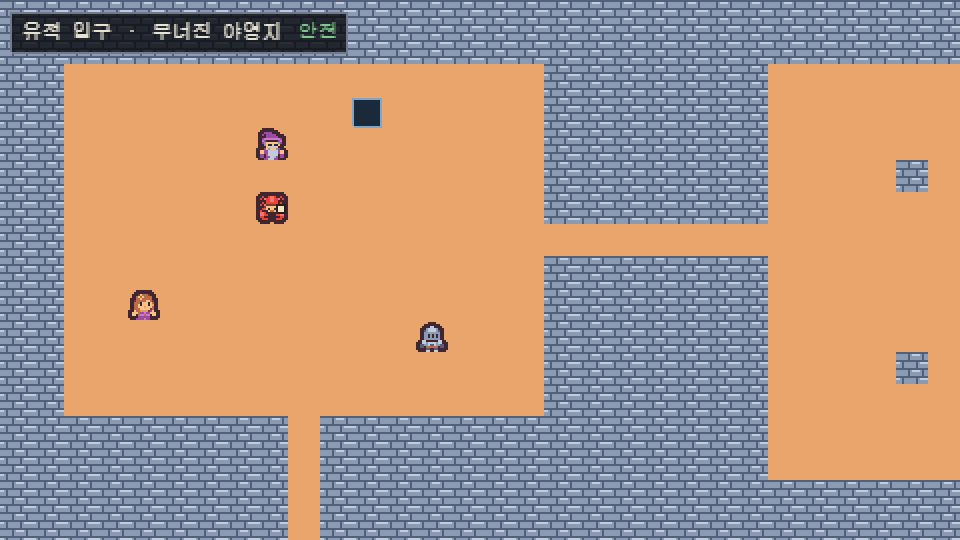
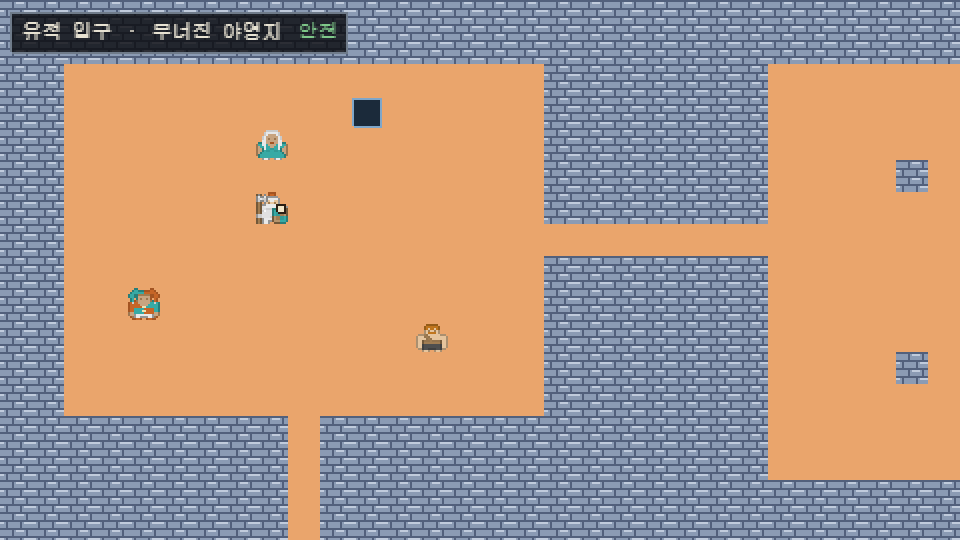
feat(assets): 인물 스프라이트 - 파티·NPC·전투 초상 (T-033)
사용자가 Kenney Roguelike Characters(CC0-1.0)를 조달했다. 벤더 팩으로
등재하고(ADR-007) 사람 그림을 전부 여기로 옮겼다.

- `data/characters.ts` 가 사람 프레임을 전담한다. 사람마다 다른 시트를 쓰면
  "이 번호가 어느 시트 것인지" 를 매번 따져야 하고, 그건 반드시 틀린다
- 색인 스키마에 `frame.spacing` 추가. 이 시트는 타일 사이 1px 여백이 있다
- 전투 파티 패널에 초상 추가. 프론트뷰인데 파티 쪽에 그림이 하나도 없었다

⚠ 이 팩에도 4방향은 없다. 종이인형 방식(몸통 + 옷 + 모자 + 무기)의 정면
한 방향이고, 6~11행 두 열만 이미 합쳐진 인물이다. 바라보는 방향은 여전히
표식이 말한다.

여백을 틀리면 화면이 비지 않고 한 칸씩 밀린 그림이 나온다 - 에셋이 없을 때보다
알아채기 어렵다. 선언한 격자(54x12)와 실제 PNG 크기를 대조하는 테스트를 넣었다.

테스트 491 -> 496.

diff --git a/tests/unit/content.test.ts b/tests/unit/content.test.ts
@@ -10,6 +10,14 @@ import {
   validateDialogueScript,
 } from '../../src/core/dialogue/index.js';
 import { DIALOGUE_SCRIPTS, dialogueScript } from '../../src/data/dialogue.js';
+import { createAssetCatalog, parseAssetIndex } from '../../src/core/assets/index.js';
+import {
+  CHARACTER_FRAMES,
+  CHARACTER_SHEET,
+  PARTY_PORTRAITS,
+  PORTRAITS,
+  portraitOf,
+} from '../../src/data/characters.js';
 import { NPCS_BY_MAP } from '../../src/data/npcs.js';
 import { PORTALS_BY_MAP } from '../../src/data/portals.js';
 import { ZONES_BY_MAP, zonesForMap } from '../../src/data/zones.js';
@@ -185,22 +193,67 @@ describe('NPC 배치', () => {
     expect(problems, problems.join('\n')).toEqual([]);
   });
 
-  it('모든 NPC 가 존재하는 대화와 유효한 타일을 가리킨다', () => {
+  it('모든 NPC 가 존재하는 대화와 유효한 프레임을 가리킨다', () => {
     const problems: string[] = [];
 
     for (const id of MAP_IDS) {
-      const tileCount = mapOf(id).tilesets[0]?.tileCount ?? 0;
       for (const npc of NPCS_BY_MAP[id] ?? []) {
         if (DIALOGUE_SCRIPTS[npc.dialogueId] === undefined) {
           problems.push(`${id}/${npc.id}: 없는 대화 "${npc.dialogueId}"`);
         }
-        if (npc.tile < 0 || npc.tile >= tileCount) {
-          problems.push(`${id}/${npc.id}: 타일 ${npc.tile} 이 범위 밖`);
+        // 사람은 전부 `chars-roguelike` 시트에서 나온다 (`data/characters.ts`).
+        if (npc.tile < 0 || npc.tile >= CHARACTER_FRAMES) {
+          problems.push(`${id}/${npc.id}: 프레임 ${npc.tile} 이 범위 밖 (0~${CHARACTER_FRAMES - 1})`);
         }
       }
     }
 
     expect(problems, problems.join('\n')).toEqual([]);
+  });
+
+  it('NPC 마다 다르게 생겼다', () => {
+    // 같은 얼굴이 둘이면 이름표를 읽기 전까지 누구인지 알 수 없다.
+    for (const id of MAP_IDS) {
+      const frames = (NPCS_BY_MAP[id] ?? []).map((npc) => npc.tile);
+      expect(new Set(frames).size, id).toBe(frames.length);
+    }
+  });
+});
+
+describe('인물 스프라이트', () => {
+  it('선언한 격자가 실제 시트 크기와 맞는다', () => {
+    // 격자를 잘못 적으면 화면이 비지 않고 **한 칸씩 밀린 그림**이 나온다.
+    // 에셋이 없을 때보다 알아채기 어려우므로 여기서 못을 박는다.
+    const entry = createAssetCatalog(
+      parseAssetIndex(JSON.parse(readFileSync(join(process.cwd(), 'assets/index.json'), 'utf8'))),
+    ).get(CHARACTER_SHEET.key);
+
+    const png = readFileSync(join(process.cwd(), entry.path));
+    const width = png.readUInt32BE(16);
+    const height = png.readUInt32BE(20);
+
+    const spacing = entry.kind === 'spritesheet' || entry.kind === 'tileset' ? (entry.frame.spacing ?? 0) : 0;
+    const cell = 16 + spacing;
+
+    expect(Math.floor((width + spacing) / cell), '열 수').toBe(CHARACTER_SHEET.columns);
+    expect(Math.floor((height + spacing) / cell), '행 수').toBe(CHARACTER_SHEET.rows);
+  });
+
+  it('파티원마다 얼굴이 다르다', () => {
+    const frames = Object.values(PARTY_PORTRAITS);
+    expect(new Set(frames).size).toBe(frames.length);
+  });
+
+  it('모든 초상이 시트 범위 안이다', () => {
+    for (const [name, frame] of Object.entries(PORTRAITS)) {
+      expect(frame, name).toBeGreaterThanOrEqual(0);
+      expect(frame, name).toBeLessThan(CHARACTER_FRAMES);
+    }
+  });
+
+  it('모르는 액터도 사람으로 그려진다 (빈 칸이 되지 않는다)', () => {
+    expect(portraitOf('nobody')).toBeGreaterThanOrEqual(0);
+    expect(portraitOf('nobody')).toBeLessThan(CHARACTER_FRAMES);
   });
 });
 

diff --git a/src/data/characters.ts b/src/data/characters.ts
@@ -1,0 +1,70 @@
+import type { ActorId } from '../core/battle/index.js';
+
+/**
+ * 사람 스프라이트.
+ *
+ * 파티도 NPC도 전부 한 시트에서 나온다 (`chars-roguelike`). 사람마다 다른 시트를 쓰면
+ * "이 번호가 어느 시트의 것인지" 를 매번 따져야 하고, 그건 반드시 틀린다.
+ *
+ * ⚠ **정면 한 방향뿐이다.** 이 팩(Kenney Roguelike Characters)은 옆·뒤 모습도,
+ * 걷기 프레임도 갖고 있지 않다. 그래서 탐색 화면에서 바라보는 방향은 여전히 표식이 말한다.
+ * 4방향 걷기는 다른 팩이 들어와야 가능하다 — 백로그의 사람 몫이다.
+ */
+export const CHARACTER_SHEET = {
+  key: 'chars-roguelike',
+  columns: 54,
+  rows: 12,
+} as const;
+
+/** 격자 좌표 → 프레임 번호. 시트 크기가 바뀌면 여기 하나만 고치면 된다. */
+export function characterFrame(column: number, row: number): number {
+  return row * CHARACTER_SHEET.columns + column;
+}
+
+export const CHARACTER_FRAMES = CHARACTER_SHEET.columns * CHARACTER_SHEET.rows;
+
+/**
+ * 조합이 끝난 인물들.
+ *
+ * 이 팩은 종이인형 방식이라 대부분의 칸이 몸통·옷·모자·무기 조각이다.
+ * 6~11행의 두 열만 **이미 합쳐진 인물**이라, 합성 기제가 없는 지금 쓸 수 있는 것은 여기뿐이다.
+ *
+ * 이름은 겉모습을 가리키는 보통명사다. 고유명사는 아직 확정하지 않는다 (GDD §10).
+ */
+export const PORTRAITS = {
+  braided: characterFrame(0, 5),
+  elder: characterFrame(1, 5),
+  bare: characterFrame(0, 6),
+  bearded: characterFrame(1, 6),
+  scarred: characterFrame(0, 7),
+  plaited: characterFrame(1, 7),
+  hooded: characterFrame(0, 8),
+  belted: characterFrame(1, 8),
+  ginger: characterFrame(0, 9),
+  greying: characterFrame(1, 9),
+  teal: characterFrame(0, 10),
+  horned: characterFrame(1, 10),
+  armored: characterFrame(0, 11),
+  robed: characterFrame(1, 11),
+} as const;
+
+export type PortraitId = keyof typeof PORTRAITS;
+
+/**
+ * 파티원의 얼굴.
+ *
+ * 전위는 갑옷, 술사는 법의. 능력이 유물에서 온다고 해서(ADR-004) 겉모습까지 같을 이유는 없다 —
+ * 오히려 누가 누구인지 한눈에 보여야 유물을 누구에게 줄지 고를 수 있다.
+ */
+export const PARTY_PORTRAITS: Readonly<Record<ActorId, number>> = {
+  vanguard: PORTRAITS.armored,
+  caster: PORTRAITS.robed,
+};
+
+/** 탐색 화면의 주인공. 파티를 이끄는 전위다. */
+export const PLAYER_PORTRAIT = PARTY_PORTRAITS['vanguard'] ?? PORTRAITS.armored;
+
+/** 모르는 액터는 조용히 빈 칸으로 두지 않는다 — 누구인지 모를 뿐 사람이긴 하다. */
+export function portraitOf(actorId: ActorId): number {
+  return PARTY_PORTRAITS[actorId] ?? PORTRAITS.bare;
+}

diff --git a/src/game/scenes/BattleScene.ts b/src/game/scenes/BattleScene.ts
@@ -17,6 +17,7 @@ import { erosionThreshold, skillBlockReason, type Skill } from '../../core/battl
 import { createRng } from '../../core/rng/index.js';
 import { BATTLE_TUNING } from '../../data/battle.js';
 import { ruinEncounter, mobTile, type Encounter } from '../../data/encounters.js';
+import { CHARACTER_SHEET, portraitOf } from '../../data/characters.js';
 import { item as itemById } from '../../data/items.js';
 import { markBattle, markScene, type BattlePhase } from '../domState.js';
 import {
@@ -161,9 +162,14 @@ export class BattleScene extends Phaser.Scene {
 
     party.forEach((member, i) => {
       const top = 176 + i * 42;
+
+      // 전투는 프론트뷰다 (GDD §6.2). 이름만 있으면 누가 누구인지 이름표로만 알게 되는데,
+      // 유물을 누구에게 줄지 고르는 게임에서 그건 부족하다.
+      this.add.image(22, top + 10, CHARACTER_SHEET.key, portraitOf(member.id));
+
       this.partyLabels.set(
         member.id,
-        this.add.text(18, top, member.name, {
+        this.add.text(36, top, member.name, {
           fontFamily: 'monospace',
           fontSize: '11px',
           color: '#e8e3d3',
@@ -171,10 +177,10 @@ export class BattleScene extends Phaser.Scene {
       );
 
       this.partyGauges.set(member.id, {
-        hp: new Gauge(this, 92, top + 1, 88, 7, 0xb0304a),
-        mp: new Gauge(this, 92, top + 11, 88, 5, 0x4a72b0),
+        hp: new Gauge(this, 108, top + 1, 84, 7, 0xb0304a),
+        mp: new Gauge(this, 108, top + 11, 84, 5, 0x4a72b0),
         // 침식은 찰수록 나쁘다. 붉은 보라로 다른 축임을 알린다.
-        erosion: new Gauge(this, 212, top + 1, 96, 7, 0x8a4ab0),
+        erosion: new Gauge(this, 222, top + 1, 90, 7, 0x8a4ab0),
       });
 
       // 막대 색만으로는 무엇인지 알 수 없다. 좁은 자리라 두 글자로 줄인다.
@@ -183,7 +189,7 @@ export class BattleScene extends Phaser.Scene {
         ['MP', 10, '#4a72b0'],
       ] as const) {
         this.add
-          .text(88, top + offsetY, label, {
+          .text(104, top + offsetY, label, {
             fontFamily: 'monospace',
             fontSize: '8px',
             color,
@@ -192,7 +198,7 @@ export class BattleScene extends Phaser.Scene {
       }
 
       this.add
-        .text(208, top, 'ER', { fontFamily: 'monospace', fontSize: '8px', color: '#8a4ab0' })
+        .text(218, top, 'ER', { fontFamily: 'monospace', fontSize: '8px', color: '#8a4ab0' })
         .setOrigin(1, 0);
     });
 

diff --git a/src/game/scenes/OverworldScene.ts b/src/game/scenes/OverworldScene.ts
@@ -3,6 +3,7 @@ import { dialogueScript } from '../../data/dialogue.js';
 import { npcsForMap, type Npc } from '../../data/npcs.js';
 import { portalsForMap } from '../../data/portals.js';
 import { zonesForMap } from '../../data/zones.js';
+import { CHARACTER_SHEET, PLAYER_PORTRAIT } from '../../data/characters.js';
 import { MAP_NAMES, STARTING_MAP, type MapId } from '../../data/maps.js';
 import type { TileMap } from '../../core/world/tilemap.js';
 import {
@@ -42,14 +43,6 @@ import { markCamera, markDialogue, markMap, markScene, markWalker, markZone } fr
 
 /** 한 칸 이동에 걸리는 시간. 이 동안 입력은 무시된다. */
 const STEP_DURATION = 110;
-
-/**
- * `tiles-dungeon` 시트의 주인공 프레임.
- *
- * NPC(84·96·99)·적(108·122)과 겹치지 않으면서 **가장 눈에 띄는 칸**을 골랐다.
- * 스크린샷으로 진행을 확인하는 이상, 주변에 묻히는 주인공은 없는 것과 같다.
- */
-const PLAYER_TILE = 110;
 
 /** 씬을 다시 시작할 때 넘기는 값. 층을 오갈 때 어디로 내려설지 알려준다. */
 export interface OverworldEntry {
@@ -361,7 +354,7 @@ export class OverworldScene extends Phaser.Scene {
     return this.add.image(
       npc.position.x * this.map.tileWidth + this.map.tileWidth / 2,
       npc.position.y * this.map.tileHeight + this.map.tileHeight / 2,
-      'tiles-dungeon',
+      CHARACTER_SHEET.key,
       npc.tile,
     );
   }
@@ -369,11 +362,11 @@ export class OverworldScene extends Phaser.Scene {
   /**
    * 주인공.
    *
-   * Tiny Dungeon 의 캐릭터 타일을 쓴다 (ADR-006 색인 경유). **한 방향뿐**이라
+   * 사람은 전부 `chars-roguelike` 에서 나온다 (`data/characters.ts`). **정면 한 방향뿐**이라
    * 어디를 보고 있는지는 여전히 표식이 말해준다 — 4방향 걷기 프레임은 백로그의 사람 몫이다.
    */
   private createPlayerView(): Phaser.GameObjects.Container {
-    const body = this.add.image(0, 0, 'tiles-dungeon', PLAYER_TILE);
+    const body = this.add.image(0, 0, CHARACTER_SHEET.key, PLAYER_PORTRAIT);
     this.facingPip = this.add.rectangle(0, 0, 4, 4, 0xf2e6c9);
     this.facingPip.setStrokeStyle(1, 0x2a1e14);
 

diff --git a/src/data/npcs.ts b/src/data/npcs.ts
@@ -1,8 +1,9 @@
 import type { Occupant } from '../core/world/interaction.js';
+import { PORTRAITS } from './characters.js';
 import type { MapId } from './maps.js';
 
 export interface Npc extends Occupant {
-  /** `tiles-dungeon` 시트의 프레임 번호. 캐릭터 타일은 84번대부터다. */
+  /** `chars-roguelike` 시트의 프레임 번호. `data/characters.ts` 가 번호를 안다. */
   readonly tile: number;
   readonly dialogueId: string;
 }
@@ -16,9 +17,10 @@ export interface Npc extends Occupant {
  */
 export const NPCS_BY_MAP: Readonly<Partial<Record<MapId, readonly Npc[]>>> = {
   'ruin-entrance': [
-    { id: 'scholar', position: { x: 8, y: 4 }, tile: 84, dialogueId: 'ruin-scholar' },
-    { id: 'guard', position: { x: 13, y: 10 }, tile: 96, dialogueId: 'ruin-guard' },
-    { id: 'drifter', position: { x: 4, y: 9 }, tile: 99, dialogueId: 'ruin-drifter' },
+    // 겉모습이 역할을 말하게 한다 — 이름표 없이도 누구에게 말을 걸지 고를 수 있어야 한다.
+    { id: 'scholar', position: { x: 8, y: 4 }, tile: PORTRAITS.elder, dialogueId: 'ruin-scholar' },
+    { id: 'guard', position: { x: 13, y: 10 }, tile: PORTRAITS.bare, dialogueId: 'ruin-guard' },
+    { id: 'drifter', position: { x: 4, y: 9 }, tile: PORTRAITS.teal, dialogueId: 'ruin-drifter' },
   ],
 
   // 지하 1층에는 아직 아무도 없다. 사람이 내려올 곳이 아니다.

diff --git a/src/core/assets/index.ts b/src/core/assets/index.ts
@@ -36,6 +36,14 @@ export interface AssetSource {
 export interface FrameSize {
   width: number;
   height: number;
+  /**
+   * 타일 사이의 간격(px). 생략하면 0.
+   *
+   * 팩마다 다르다 — Kenney 의 `_packed` 시트는 간격이 없지만, 일반 시트는 1px 씩 띄운다.
+   * 이 값을 틀리면 화면이 비지 않고 **한 칸씩 밀린 그림**이 나오므로, 에셋이 없을 때보다
+   * 알아채기 어렵다. 그래서 색인에 명시하게 한다.
+   */
+  spacing?: number;
 }
 
 /**
@@ -292,7 +300,18 @@ function validateEntry(
       problems.push(`${where}: frame.width/height 는 양의 정수여야 합니다.`);
       return undefined;
     }
-    return { ...base, kind: kind as FramedKind, frame: { width, height } };
+
+    const spacing = frame['spacing'];
+    if (spacing !== undefined && (typeof spacing !== 'number' || !Number.isInteger(spacing) || spacing < 0)) {
+      problems.push(`${where}: frame.spacing 은 0 이상의 정수여야 합니다 (받은 값: ${String(spacing)}).`);
+      return undefined;
+    }
+
+    return {
+      ...base,
+      kind: kind as FramedKind,
+      frame: spacing === undefined ? { width, height } : { width, height, spacing },
+    };
   }
 
   return { ...base, kind: kind as PlainKind };

diff --git a/src/game/assets/queueAssets.ts b/src/game/assets/queueAssets.ts
@@ -21,6 +21,7 @@ export function queueAssets(loader: Phaser.Loader.LoaderPlugin, catalog: AssetCa
         loader.spritesheet(entry.key, entry.path, {
           frameWidth: entry.frame.width,
           frameHeight: entry.frame.height,
+          spacing: entry.frame.spacing ?? 0,
         });
         break;
 

diff --git a/docs/BACKLOG.md b/docs/BACKLOG.md
@@ -24,9 +24,10 @@
 - [x] **T-007a** 에셋 색인 체계 구축 — `assets/index.json` 스키마·검증, `CREDITS.md` 대조, 미등재 경로 참조 시 테스트 실패 (ADR-006). 현재 색인은 비어 있음
 - [x] **에셋 조달** — Kenney Tiny Town + Tiny Dungeon (CC0-1.0) 벤더 팩으로 등재 완료. `tiles-town`, `tiles-dungeon` 키로 로드 가능
 - [x] **T-007b** 실제 타일셋 렌더링 — `tilesets` 파싱, gid → 프레임 매핑, RenderTexture 렌더러. 맵이 Kenney Tiny Dungeon 시트를 쓴다
-- [ ] **에셋 필요: 4방향 캐릭터 스프라이트** ⬅ 사람이 처리
-  - Tiny Town/Dungeon 에 캐릭터 타일이 있으나 4방향 걷기 프레임은 아니다. **주인공은 T-030 에서 Tiny Dungeon 캐릭터 타일(110번)로 교체했다** — 정면 한 장뿐이라 바라보는 방향은 여전히 표식이 말한다
-  - 남은 것: 상·하·좌·우 × 걷기 2~3프레임. 루프는 인터넷에서 내려받지 않으므로(CLAUDE.md 규칙 10) 사람이 조달해야 한다. 후보는 LPC 스프라이트(CC-BY-SA), Kenney Roguelike Characters(CC0)
+- [ ] **에셋 필요: 4방향 걷기 프레임** ⬅ 사람이 처리
+  - 사용자가 Kenney Roguelike Characters(CC0)를 조달해 T-033 에서 적용했다. 인물 얼굴은 이걸로 해결됐다
+  - **그 팩에도 옆·뒤 모습과 걷기 프레임은 없다.** 정면 한 장뿐이라 바라보는 방향은 여전히 표식이 말한다
+  - 필요한 것: 상·하·좌·우 × 걷기 2~3프레임인 시트. 루프는 인터넷에서 내려받지 않는다(CLAUDE.md 규칙 10). 후보는 LPC 스프라이트(CC-BY-SA — 라이선스가 지금 목록에 없어 추가 판단 필요), Kenney Roguelike Modern/Fantasy 계열
 - [x] **T-007** 타일맵 로딩 (Tiled `.tmj`) + 렌더링 — `core/world/tilemap.ts` 파서·검증, 플레이스홀더 렌더러, `ruin-entrance.tmj` (30x16)
 - [x] **T-008** 그리드 4방향 이동 + 충돌 판정 — `core/world/movement.ts`, 막혀도 방향은 바뀜, 스모크가 실제 이동까지 검증
 - [x] **T-009** 카메라 추적 + 맵 경계 클램프 — `core/world/camera.ts`, 맵을 60x40(960x640px)으로 확장해 카메라가 실제로 의미를 갖게 함
@@ -90,6 +91,10 @@
   - 사용자 지적: "마을에서도 전투가 발생한다 / 전투 영역인지 표시해달라 / 맵 이름을 보여달라"
 - [ ] **T-031** 구역 진입 시 이름 띄우기 (연출)
   - DoD: 구역이 바뀌는 순간 화면 가운데에 이름이 잠시 떴다 사라진다. 지금은 배너가 조용히 바뀌어서 **경계를 넘은 사실 자체를 놓치기 쉽다**
+- [x] **T-033** 인물 스프라이트 — Kenney Roguelike Characters 벤더 팩 등재, 파티·NPC 전원 교체, 전투 파티 패널에 초상
+  - 사용자 조달: `kenney_roguelike-characters` (CC0-1.0). 색인에 `frame.spacing` 지원 추가 (이 시트는 타일 사이 1px 여백이 있다)
+- [ ] **T-034** 적 스프라이트를 인물 시트로 옮길지 검토
+  - 적은 여전히 `tiles-dungeon` 프레임을 쓴다. 지금 화면은 나쁘지 않으나, 사람과 적이 다른 시트에서 나오면 "이 번호가 어느 시트 것인지" 를 매번 따지게 된다
 - [ ] **T-032** 지역별 인카운터 테이블을 맵이 아니라 구역 단위로
   - DoD: `ENCOUNTER_TABLES`·`AREA_LEVELS` 의 키가 `MapId` → 구역 id. 지금은 같은 맵 안이면 기둥 홀이든 남쪽 안뜰이든 같은 적이 같은 레벨로 나온다 — 구역이 생겼으니 층 대신 구역이 난이도 축이 될 수 있다
 

diff --git a/docs/PROGRESS.md b/docs/PROGRESS.md
@@ -14,6 +14,17 @@
 
 ---
 
+### 2026-08-05 · T-033 · 인물 스프라이트
+- 한 일: 사용자가 조달한 Kenney Roguelike Characters(CC0)를 벤더 팩으로 등재. `data/characters.ts` 가 사람 프레임을 전담하고, 파티·NPC·전투 초상이 전부 여기서 나온다. 색인 스키마에 `frame.spacing` 추가. 테스트 491 → 496개
+- 알게 된 것:
+  - **이 팩에도 4방향은 없었다.** 종이인형 방식(몸통 + 옷 + 모자 + 무기)의 **정면 한 방향**이고, 6~11행 두 열만 이미 합쳐진 인물이다. 합성 기제가 없는 지금 쓸 수 있는 것은 그 14명뿐이다.
+  - 시트마다 여백 규칙이 다르다. Kenney 의 `_packed` 는 여백이 없지만 이 팩은 1px 씩 띄운다. **여백을 틀리면 화면이 비지 않고 한 칸씩 밀린 그림이 나온다** — 에셋이 없을 때보다 알아채기 어려워서, 선언한 격자와 실제 PNG 크기를 대조하는 테스트를 넣었다.
+  - 사람을 한 시트로 모았다. 사람마다 다른 시트를 쓰면 "이 번호가 어느 시트의 것인지" 를 매번 따져야 하고, 그건 반드시 틀린다.
+  - 전투가 프론트뷰인데 파티 쪽에 그림이 하나도 없었다. 초상을 넣으려고 게이지를 20px 씩 밀었다 — 레이아웃은 테스트가 못 잡으므로 스크린샷으로 확인했다.
+- 다음에 걸릴 것 같은 것:
+  - 적은 아직 `tiles-dungeon` 프레임을 쓴다 (T-034). 두 시트를 섞어 쓰는 상태가 오래가면 번호를 헷갈리게 된다.
+  - 4방향 걷기는 여전히 사람 몫이다. 지금 팩으로는 불가능하다.
+
 ### 2026-08-05 · T-026 · 유물별 침식 계수
 - 한 일: `activesOf` 가 유물 계수를 스킬 침식량에 곱한다(ADR-012). 공명 효과 종류를 넓혀 `erosionRelief` 추가 — T-024 에서 미뤄둔 것을 소비 기제가 생긴 지금 붙였다. 측정용 `relicFight` 시나리오와 `npm run sim` 유물별 표. 테스트 474 → 491개
 - 알게 된 것:

diff --git a/assets/CREDITS.md b/assets/CREDITS.md
@@ -12,6 +12,7 @@
 |---|---|---|---|
 | Kenney Tiny Town | https://kenney.nl/assets/tiny-town | CC0-1.0 | `kenney_tiny-town/License.txt` |
 | Kenney Tiny Dungeon | https://kenney.nl/assets/tiny-dungeon | CC0-1.0 | `kenney_tiny-dungeon/License.txt` |
+| Kenney Roguelike Characters | https://kenney.nl/assets/roguelike-characters | CC0-1.0 | `kenney_roguelike-characters/License.txt` |
 
 CC0-1.0은 저작자 표시 의무가 없지만, **출처를 아는 것과 모르는 것은 다르다.**
 나중에 라이선스를 재확인하거나 같은 작가의 에셋을 더 찾을 때 필요하다.
